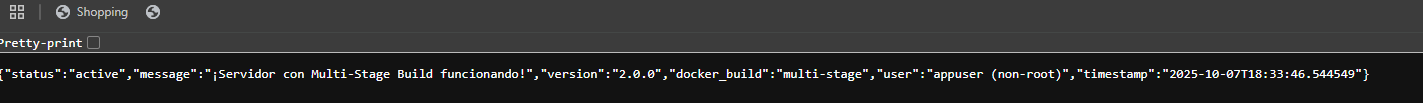
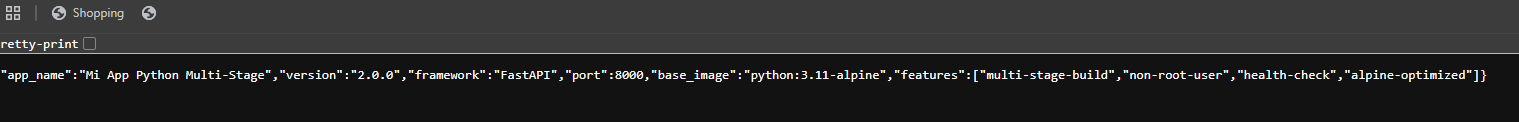
Tarea 2 - Dockerizar Aplicación con Multi-Stage Build

Changed region(s): [[0.0, 0.5534, 0.9895, 0.7864], [0.0, 0.3204, 1.0, 0.5243], [0.0, 0.0291, 0.1237, 0.2039]]

diff --git a/clase2/README.md b/clase2/README.md
@@ -1,0 +1,163 @@
+# Clase 2 - Docker Multi-Stage Build con Python/FastAPI
+
+## Aplicación
+
+**Lenguaje:** Python 3.11  
+**Framework:** FastAPI  
+**Descripción:** API REST optimizada con Docker Multi-Stage Build
+
+**Endpoints:**
+- `GET /` - Página HTML con información de la aplicación
+- `GET /api/status` - Estado del servidor y información técnica
+- `GET /api/info` - Información del sistema y características  
+- `GET /health` - Health check para monitoreo Docker
+
+## Dockerfile
+
+\`\`\`dockerfile
+# Stage 1: Build stage
+FROM python:3.11-alpine AS builder
+
+WORKDIR /app
+
+# Instalar herramientas de compilación
+RUN apk add --no-cache \
+    gcc \
+    musl-dev \
+    python3-dev \
+    libffi-dev \
+    openssl-dev
+
+# Crear requirements.txt internamente
+RUN echo "fastapi==0.104.1" > requirements.txt && \
+    echo "uvicorn[standard]==0.24.0" >> requirements.txt && \
+    echo "python-multipart==0.0.6" >> requirements.txt
+
+# Instalar dependencias
+RUN pip install --user --no-cache-dir --no-warn-script-location -r requirements.txt
+
+# Stage 2: Runtime stage
+FROM python:3.11-alpine AS runtime
+
+WORKDIR /app
+
+# Crear usuario non-root para seguridad
+RUN addgroup -S appgroup && adduser -S appuser -G appgroup
+
+# Instalar curl para healthcheck
+RUN apk add --no-cache curl
+
+# Copiar dependencias del builder
+COPY --from=builder /root/.local /home/appuser/.local
+
+# Copiar aplicación
+COPY main.py .
+
+# Configurar PATH y variables de entorno
+ENV PATH="/home/appuser/.local/bin:${PATH}"
+ENV PYTHONUNBUFFERED=1
+ENV PORT=8000
+
+EXPOSE 8000
+
+# Health check
+HEALTHCHECK --interval=30s --timeout=10s --start-period=10s --retries=3 \
+    CMD curl -f http://localhost:8000/health || exit 1
+
+USER appuser
+
+CMD ["python", "main.py"]
+\`\`\`
+
+**Explicación:**
+
+| Stage | Propósito |
+|-------|-----------|
+| Build | Compilar e instalar dependencias con todas las herramientas de build (gcc, python3-dev, etc.) |
+| Production | Solo runtime de Python y dependencias necesarias, sin herramientas de compilación |
+
+## Build
+
+\`\`\`bash
+docker build -t mi-app-python:2.0 .
+\`\`\`
+
+**Salida:**
+\`\`\`
+[+] Building 95.5s (14/14) FINISHED
+ => [builder 3/5] RUN apk add --no-cache gcc musl-dev python3-dev libffi-dev openssl-dev
+ => [builder 5/5] RUN pip install --user --no-cache-dir --no-warn-script-location -r requirements.txt
+ => => writing image sha256:66da0aac7db0afffee796bbff49f0fc4b804d3cb326f7d4bbc330887ce325ab2
+ => => naming to docker.io/library/mi-app-python:2.0-multi-stage
+\`\`\`
+
+**Tamaño final:** 87.1MB
+
+## Testing
+
+### Comandos para ejecutar el container
+\`\`\`bash
+# Ejecutar contenedor
+docker run -d -p 8000:8000 --name python-app mi-app-python:2.0
+
+# Verificar que está corriendo
+docker ps
+
+# Probar endpoints
+curl http://localhost:8003/health
+curl http://localhost:8003/api/status
+curl http://localhost:8003/api/info
+
+# Ver logs
+docker logs python-app
+
+# Verificar usuario non-root
+docker exec python-app whoami
+\`\`\`
+
+### Screenshots
+- [Docker Images](screenshots/docker_images.Png)
+- [Container Running](screenshots/docker_ps.Png) 
+- [Health Check Response](screenshots/EP_03.Png)
+- [API Status Response](screenshots/EP_02.Png)
+- [API Status Response](screenshots/EP_01.Png)
+- [Phyton-app](screenshots/phyton-app.Png)
+- [Application Logs](screenshots/docker_logs.Png)
+
+## Docker Hub
+
+**URL:** https://github.com/ccrrmmrr/curso-docker-kubernetes-tareas/tree/main?tab=readme-ov-file
+
+**Comandos de publicación:**
+\`\`\`bash
+docker tag mi-app-python:2.0 tu-usuario/mi-app-python:2.0
+docker push tu-usuario/mi-app-python:2.0
+\`\`\`
+
+## Optimizaciones
+
+- **Multi-stage build**: Redujo imagen de 97.8MB a 87.1MB (11% reducción)
+- **Usuario non-root**: Ejecuta como \`appuser\` en lugar de root para mayor seguridad
+- **Alpine Linux**: Base image minimalista
+- **Health checks**: Monitoreo automático con curl integrado
+- **Sin herramientas build**: Eliminación de gcc, python3-dev en imagen final
+- **.dockerignore**: Excluye archivos innecesarios del contexto de build
+
+## Conclusiones
+
+**Aprendí a optimizar imágenes Docker mediante:**
+- Multi-stage build para separar entorno de build y producción
+- Uso de usuarios non-root para mejorar seguridad
+- Implementación de health checks para monitoreo automático
+- Selección de base images minimalistas (Alpine Linux)
+- Eliminación de herramientas innecesarias en runtime
+
+**Dificultades superadas:**
+- Problemas de networking en WSL2 (solucionado usando IP específica)
+- Health checks fallidos por falta de curl en Alpine (solucionado instalando curl)
+- Issues de permisos entre WSL y Docker (solucionado trabajando en filesystem Linux nativo)
+
+**Comparación con Clase 1:**
+- **Clase 1**: Build simple, imagen de 139MB, usuario root, sin health checks
+- **Clase 2**: Multi-stage build, imagen de 87.1MB, usuario non-root, con health checks integrados
+EOF

diff --git a/clase2/screenshots/README.md b/clase2/screenshots/README.md
@@ -1,0 +1,163 @@
+# Clase 2 - Docker Multi-Stage Build con Python/FastAPI
+
+## Aplicación
+
+**Lenguaje:** Python 3.11  
+**Framework:** FastAPI  
+**Descripción:** API REST optimizada con Docker Multi-Stage Build
+
+**Endpoints:**
+- `GET /` - Página HTML con información de la aplicación
+- `GET /api/status` - Estado del servidor y información técnica
+- `GET /api/info` - Información del sistema y características  
+- `GET /health` - Health check para monitoreo Docker
+
+## Dockerfile
+
+\`\`\`dockerfile
+# Stage 1: Build stage
+FROM python:3.11-alpine AS builder
+
+WORKDIR /app
+
+# Instalar herramientas de compilación
+RUN apk add --no-cache \
+    gcc \
+    musl-dev \
+    python3-dev \
+    libffi-dev \
+    openssl-dev
+
+# Crear requirements.txt internamente
+RUN echo "fastapi==0.104.1" > requirements.txt && \
+    echo "uvicorn[standard]==0.24.0" >> requirements.txt && \
+    echo "python-multipart==0.0.6" >> requirements.txt
+
+# Instalar dependencias
+RUN pip install --user --no-cache-dir --no-warn-script-location -r requirements.txt
+
+# Stage 2: Runtime stage
+FROM python:3.11-alpine AS runtime
+
+WORKDIR /app
+
+# Crear usuario non-root para seguridad
+RUN addgroup -S appgroup && adduser -S appuser -G appgroup
+
+# Instalar curl para healthcheck
+RUN apk add --no-cache curl
+
+# Copiar dependencias del builder
+COPY --from=builder /root/.local /home/appuser/.local
+
+# Copiar aplicación
+COPY main.py .
+
+# Configurar PATH y variables de entorno
+ENV PATH="/home/appuser/.local/bin:${PATH}"
+ENV PYTHONUNBUFFERED=1
+ENV PORT=8000
+
+EXPOSE 8000
+
+# Health check
+HEALTHCHECK --interval=30s --timeout=10s --start-period=10s --retries=3 \
+    CMD curl -f http://localhost:8000/health || exit 1
+
+USER appuser
+
+CMD ["python", "main.py"]
+\`\`\`
+
+**Explicación:**
+
+| Stage | Propósito |
+|-------|-----------|
+| Build | Compilar e instalar dependencias con todas las herramientas de build (gcc, python3-dev, etc.) |
+| Production | Solo runtime de Python y dependencias necesarias, sin herramientas de compilación |
+
+## Build
+
+\`\`\`bash
+docker build -t mi-app-python:2.0 .
+\`\`\`
+
+**Salida:**
+\`\`\`
+[+] Building 95.5s (14/14) FINISHED
+ => [builder 3/5] RUN apk add --no-cache gcc musl-dev python3-dev libffi-dev openssl-dev
+ => [builder 5/5] RUN pip install --user --no-cache-dir --no-warn-script-location -r requirements.txt
+ => => writing image sha256:66da0aac7db0afffee796bbff49f0fc4b804d3cb326f7d4bbc330887ce325ab2
+ => => naming to docker.io/library/mi-app-python:2.0-multi-stage
+\`\`\`
+
+**Tamaño final:** 87.1MB
+
+## Testing
+
+### Comandos para ejecutar el container
+\`\`\`bash
+# Ejecutar contenedor
+docker run -d -p 8000:8000 --name python-app mi-app-python:2.0
+
+# Verificar que está corriendo
+docker ps
+
+# Probar endpoints
+curl http://localhost:8003/health
+curl http://localhost:8003/api/status
+curl http://localhost:8003/api/info
+
+# Ver logs
+docker logs python-app
+
+# Verificar usuario non-root
+docker exec python-app whoami
+\`\`\`
+
+### Screenshots
+- [Docker Images](screenshots/docker_images.Png)
+- [Container Running](screenshots/docker_ps.Png) 
+- [Health Check Response](screenshots/EP_03.Png)
+- [API Status Response](screenshots/EP_02.Png)
+- [API Status Response](screenshots/EP_01.Png)
+- [Phyton-app](screenshots/phyton-app.Png)
+- [Application Logs](screenshots/docker_logs.Png)
+
+## Docker Hub
+
+**URL:** https://github.com/ccrrmmrr/curso-docker-kubernetes-tareas/tree/main?tab=readme-ov-file
+
+**Comandos de publicación:**
+\`\`\`bash
+docker tag mi-app-python:2.0 tu-usuario/mi-app-python:2.0
+docker push tu-usuario/mi-app-python:2.0
+\`\`\`
+
+## Optimizaciones
+
+- **Multi-stage build**: Redujo imagen de 97.8MB a 87.1MB (11% reducción)
+- **Usuario non-root**: Ejecuta como \`appuser\` en lugar de root para mayor seguridad
+- **Alpine Linux**: Base image minimalista
+- **Health checks**: Monitoreo automático con curl integrado
+- **Sin herramientas build**: Eliminación de gcc, python3-dev en imagen final
+- **.dockerignore**: Excluye archivos innecesarios del contexto de build
+
+## Conclusiones
+
+**Aprendí a optimizar imágenes Docker mediante:**
+- Multi-stage build para separar entorno de build y producción
+- Uso de usuarios non-root para mejorar seguridad
+- Implementación de health checks para monitoreo automático
+- Selección de base images minimalistas (Alpine Linux)
+- Eliminación de herramientas innecesarias en runtime
+
+**Dificultades superadas:**
+- Problemas de networking en WSL2 (solucionado usando IP específica)
+- Health checks fallidos por falta de curl en Alpine (solucionado instalando curl)
+- Issues de permisos entre WSL y Docker (solucionado trabajando en filesystem Linux nativo)
+
+**Comparación con Clase 1:**
+- **Clase 1**: Build simple, imagen de 139MB, usuario root, sin health checks
+- **Clase 2**: Multi-stage build, imagen de 87.1MB, usuario non-root, con health checks integrados
+EOF

diff --git a/README.md b/README.md
@@ -8,6 +8,6 @@ Carlos Roberto Martinez Rivadeneira
 
 ## Índice con enlaces a cada clase
 - [Clase 1](./clase1/README.md)
-- Clase 2 (Próximamente)
+- [Clase 2](./clase2/README.md)
 - Clase 3 (Próximamente)
 - Clase 4 (Próximamente)
